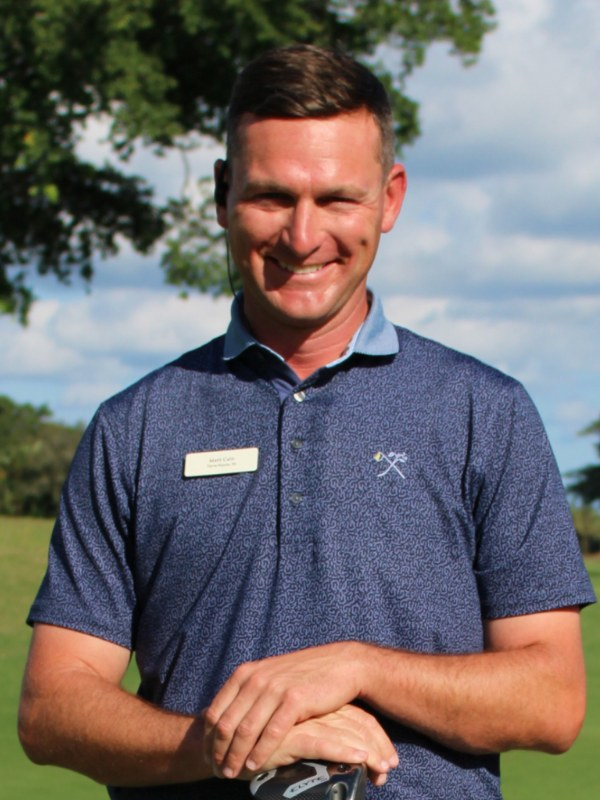
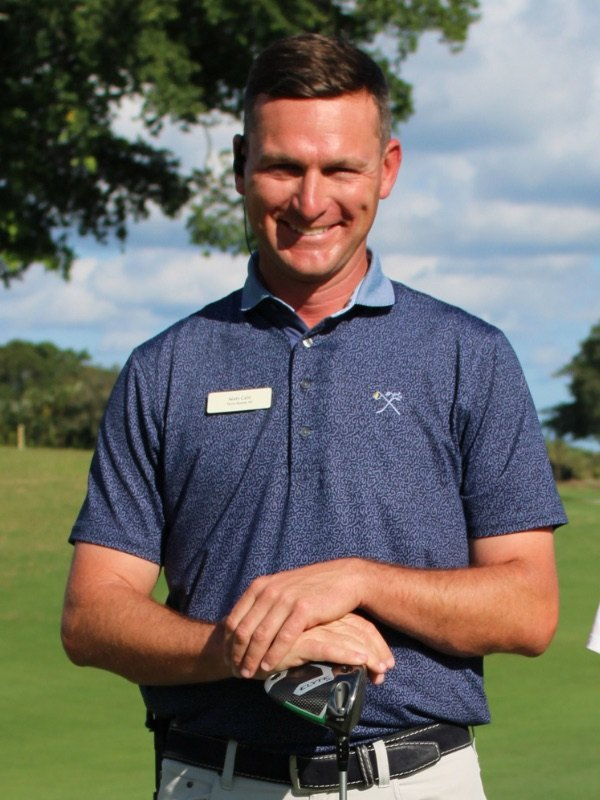
Instruction: new coach photos + Performance Training chapter (Madison 8/18)
Coach portraits replaced with the club's new images — Kirk, Stenzel, Como,
Cain, Rowles. Re-cut to 3:4 at 600x800 to match the existing convention so
they show uncropped in the frame; the taller full-body shots were cropped
with a top bias so heads stay in.

New chapter "No. III — Performance Training" sits directly above Future
Vision as requested. Body copy is Madison's, verbatim. Eyebrow is her
section name; the title reuses her own wording ("Fitness Center") rather
than introducing new copy. Surface is bone, keeping the white/satin/bone/
white rhythm; Future Vision renumbered III -> IV.

Fitness Center image cropped to 4:3 for .callout-img-lg (it arrived as a
portrait inline in the email rather than as an attachment).

No new photo was supplied for Mark Sweeney — his existing portrait stands.

Rebuilt with build.cjs; index.html bumped to ?v=77.

diff --git a/index.html b/index.html
@@ -16,8 +16,8 @@
   <link rel="stylesheet" href="https://use.typekit.net/bux1rla.css">
   <!-- LCP: the home hero poster paints first regardless of mode -->
   <link rel="preload" as="image" href="assets/home-hero.jpg" fetchpriority="high">
-  <link rel="stylesheet" href="styles/colors_and_type.css?v=76">
-  <link rel="stylesheet" href="styles/site.css?v=76">
+  <link rel="stylesheet" href="styles/colors_and_type.css?v=77">
+  <link rel="stylesheet" href="styles/site.css?v=77">
 </head>
 <body>
   <div id="app"></div>
@@ -30,27 +30,27 @@
   <script defer src="https://unpkg.com/react-dom@18.3.1/umd/react-dom.production.min.js" crossorigin="anonymous"></script>
 
   <!-- Shared components (compiled from components/*.jsx) -->
-  <script defer src="components/Reveal.js?v=76"></script>
-  <script defer src="components/Motion.js?v=76"></script>
-  <script defer src="components/Blocks.js?v=76"></script>
-  <script defer src="components/NewsStore.js?v=76"></script>
-  <script defer src="components/Header.js?v=76"></script>
-  <script defer src="components/Footer.js?v=76"></script>
-  <script defer src="components/Splash.js?v=76"></script>
+  <script defer src="components/Reveal.js?v=77"></script>
+  <script defer src="components/Motion.js?v=77"></script>
+  <script defer src="components/Blocks.js?v=77"></script>
+  <script defer src="components/NewsStore.js?v=77"></script>
+  <script defer src="components/Header.js?v=77"></script>
+  <script defer src="components/Footer.js?v=77"></script>
+  <script defer src="components/Splash.js?v=77"></script>
 
   <!-- Pages (compiled from pages/*.jsx) -->
-  <script defer src="pages/Home.js?v=76"></script>
-  <script defer src="pages/Golf.js?v=76"></script>
-  <script defer src="pages/Racquets.js?v=76"></script>
-  <script defer src="pages/Location.js?v=76"></script>
-  <script defer src="pages/News.js?v=76"></script>
-  <script defer src="pages/Guests.js?v=76"></script>
-  <script defer src="pages/Instruction.js?v=76"></script>
-  <script defer src="pages/Membership.js?v=76"></script>
-  <script defer src="pages/Admin.js?v=76"></script>
+  <script defer src="pages/Home.js?v=77"></script>
+  <script defer src="pages/Golf.js?v=77"></script>
+  <script defer src="pages/Racquets.js?v=77"></script>
+  <script defer src="pages/Location.js?v=77"></script>
+  <script defer src="pages/News.js?v=77"></script>
+  <script defer src="pages/Guests.js?v=77"></script>
+  <script defer src="pages/Instruction.js?v=77"></script>
+  <script defer src="pages/Membership.js?v=77"></script>
+  <script defer src="pages/Admin.js?v=77"></script>
 
   <!-- App shell + bootstrap (compiled from app.jsx) — runs last -->
-  <script defer src="app.js?v=76"></script>
+  <script defer src="app.js?v=77"></script>
 
   <style>
     @keyframes fadeIn { from { opacity: 0; } to { opacity: 1; } }

diff --git a/pages/Instruction.js b/pages/Instruction.js
@@ -182,12 +182,25 @@ function InstructionPage({
     lgImg: "assets/instruction-practice.jpg",
     motif: "pipe"
   }))), /*#__PURE__*/React.createElement("section", {
+    className: "section surface-bone"
+  }, /*#__PURE__*/React.createElement("div", {
+    className: "container"
+  }, /*#__PURE__*/React.createElement(Reveal, null, /*#__PURE__*/React.createElement("div", {
+    className: "folio"
+  }, "No. III \u2014 Performance Training"))), /*#__PURE__*/React.createElement(LayeredCallout, {
+    flipped: true,
+    eyebrow: "Performance Training",
+    title: "The Fitness Center.",
+    body: "Our holistic approach to performance extends into the Fitness Center, where mobility, strength, stability, and functional movement complement golf instruction. By connecting physical performance with the golf swing, members can move more efficiently, build greater body awareness, and support their performance on the course.",
+    lgImg: "assets/performance-training.jpg",
+    motif: "pipe"
+  })), /*#__PURE__*/React.createElement("section", {
     className: "section surface-white"
   }, /*#__PURE__*/React.createElement("div", {
     className: "container"
   }, /*#__PURE__*/React.createElement(Reveal, null, /*#__PURE__*/React.createElement("div", {
     className: "folio"
-  }, "No. III \u2014 Future Vision"))), /*#__PURE__*/React.createElement(LayeredCallout, {
+  }, "No. IV \u2014 Future Vision"))), /*#__PURE__*/React.createElement(LayeredCallout, {
     eyebrow: "Future Vision",
     title: "The Golf Performance Center.",
     body: "Designed as the next evolution of the Club's instructional program, the future Golf Performance Center will feature two dedicated instructional bays and inviting indoor-outdoor gathering spaces, creating a vibrant community hub where members can learn, practice, connect, and enjoy the game year-round.",

diff --git a/pages/Instruction.jsx b/pages/Instruction.jsx
@@ -127,11 +127,30 @@ function InstructionPage({ onNav }) {
         </div>
       </section>
 
+      {/* PERFORMANCE TRAINING — added at Madison's request (8/18); placed
+          directly above Future Vision as she specified. Body copy is hers,
+          verbatim. Eyebrow is her section name; the title is taken from her
+          own wording ("Fitness Center") to match the chapter pattern rather
+          than introduce new copy. */}
+      <section className="section surface-bone">
+        <div className="container">
+          <Reveal><div className="folio">No. III — Performance Training</div></Reveal>
+        </div>
+        <LayeredCallout
+          flipped
+          eyebrow="Performance Training"
+          title="The Fitness Center."
+          body="Our holistic approach to performance extends into the Fitness Center, where mobility, strength, stability, and functional movement complement golf instruction. By connecting physical performance with the golf swing, members can move more efficiently, build greater body awareness, and support their performance on the course."
+          lgImg="assets/performance-training.jpg"
+          motif="pipe"
+        />
+      </section>
+
       {/* FUTURE VISION — Golf Performance Center (club 8/4, replaces the old
           Player Development chapter; rendering supplied by the club) */}
       <section className="section surface-white">
         <div className="container">
-          <Reveal><div className="folio">No. III — Future Vision</div></Reveal>
+          <Reveal><div className="folio">No. IV — Future Vision</div></Reveal>
         </div>
         <LayeredCallout
           eyebrow="Future Vision"
